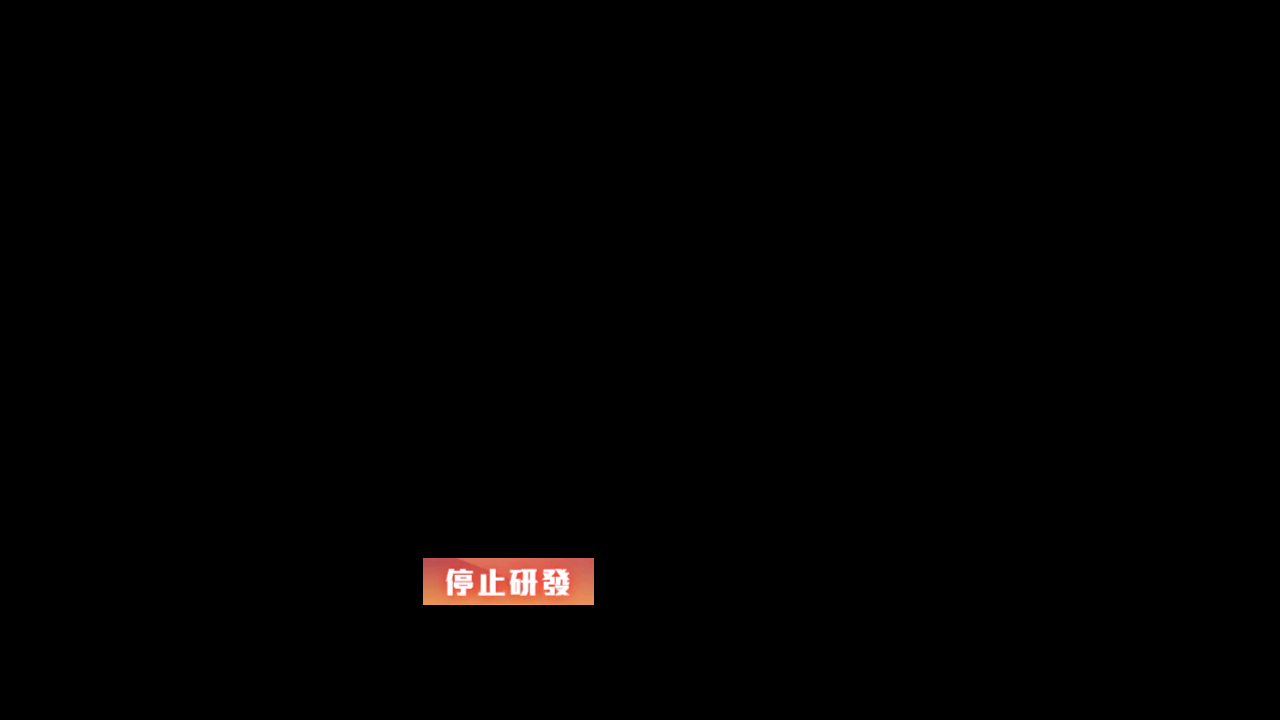
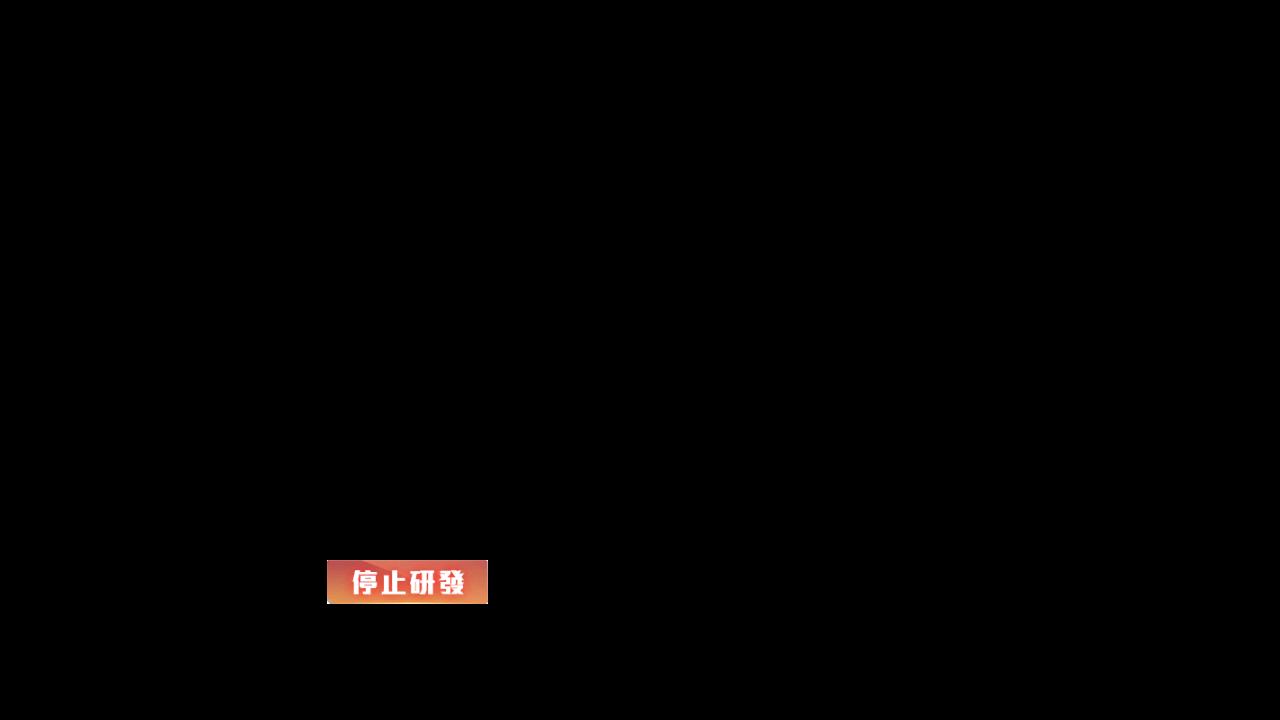
Upd: [TW] Research_queue_*.assets

Changed region(s): [[0.25, 0.7639, 0.4688, 0.8556]]

diff --git a/module/research/assets.py b/module/research/assets.py
@@ -30,9 +30,9 @@ OCR_RESEARCH_2 = Button(area={'cn': (292, 263, 490, 325), 'en': (292, 263, 490, 
 OCR_RESEARCH_3 = Button(area={'cn': (505, 249, 730, 319), 'en': (505, 249, 730, 319), 'jp': (505, 249, 730, 319), 'tw': (505, 249, 730, 319)}, color={'cn': (204, 180, 143), 'en': (204, 180, 143), 'jp': (204, 180, 143), 'tw': (204, 180, 143)}, button={'cn': (505, 249, 730, 319), 'en': (505, 249, 730, 319), 'jp': (505, 249, 730, 319), 'tw': (505, 249, 730, 319)}, file={'cn': './assets/cn/research/OCR_RESEARCH_3.png', 'en': './assets/en/research/OCR_RESEARCH_3.png', 'jp': './assets/jp/research/OCR_RESEARCH_3.png', 'tw': './assets/tw/research/OCR_RESEARCH_3.png'})
 OCR_RESEARCH_4 = Button(area={'cn': (752, 263, 950, 325), 'en': (752, 263, 950, 325), 'jp': (752, 263, 950, 325), 'tw': (752, 263, 950, 325)}, color={'cn': (122, 155, 203), 'en': (122, 155, 203), 'jp': (122, 155, 203), 'tw': (122, 155, 203)}, button={'cn': (752, 263, 950, 325), 'en': (752, 263, 950, 325), 'jp': (752, 263, 950, 325), 'tw': (752, 263, 950, 325)}, file={'cn': './assets/cn/research/OCR_RESEARCH_4.png', 'en': './assets/en/research/OCR_RESEARCH_4.png', 'jp': './assets/jp/research/OCR_RESEARCH_4.png', 'tw': './assets/tw/research/OCR_RESEARCH_4.png'})
 OCR_RESEARCH_5 = Button(area={'cn': (998, 276, 1169, 329), 'en': (998, 276, 1169, 329), 'jp': (998, 276, 1169, 329), 'tw': (998, 276, 1169, 329)}, color={'cn': (124, 156, 204), 'en': (124, 156, 204), 'jp': (124, 156, 204), 'tw': (124, 156, 204)}, button={'cn': (998, 276, 1169, 329), 'en': (998, 276, 1169, 329), 'jp': (998, 276, 1169, 329), 'tw': (998, 276, 1169, 329)}, file={'cn': './assets/cn/research/OCR_RESEARCH_5.png', 'en': './assets/en/research/OCR_RESEARCH_5.png', 'jp': './assets/jp/research/OCR_RESEARCH_5.png', 'tw': './assets/tw/research/OCR_RESEARCH_5.png'})
-QUEUE_CHECK = Button(area={'cn': (118, 16, 227, 39), 'en': (117, 16, 215, 38), 'jp': (116, 14, 232, 42), 'tw': (118, 16, 227, 39)}, color={'cn': (149, 166, 205), 'en': (125, 139, 179), 'jp': (147, 163, 199), 'tw': (149, 166, 205)}, button={'cn': (118, 16, 227, 39), 'en': (117, 16, 215, 38), 'jp': (116, 14, 232, 42), 'tw': (118, 16, 227, 39)}, file={'cn': './assets/cn/research/QUEUE_CHECK.png', 'en': './assets/en/research/QUEUE_CHECK.png', 'jp': './assets/jp/research/QUEUE_CHECK.png', 'tw': './assets/cn/research/QUEUE_CHECK.png'})
-QUEUE_CLAIM_REWARD = Button(area={'cn': (1230, 275, 1272, 420), 'en': (1225, 258, 1270, 448), 'jp': (1219, 254, 1279, 460), 'tw': (1230, 275, 1272, 420)}, color={'cn': (249, 182, 121), 'en': (249, 171, 97), 'jp': (249, 170, 97), 'tw': (249, 182, 121)}, button={'cn': (1230, 275, 1272, 420), 'en': (1225, 258, 1270, 448), 'jp': (1219, 254, 1279, 460), 'tw': (1230, 275, 1272, 420)}, file={'cn': './assets/cn/research/QUEUE_CLAIM_REWARD.png', 'en': './assets/en/research/QUEUE_CLAIM_REWARD.png', 'jp': './assets/jp/research/QUEUE_CLAIM_REWARD.png', 'tw': './assets/cn/research/QUEUE_CLAIM_REWARD.png'})
-QUEUE_REMAIN = Button(area={'cn': (156, 605, 272, 637), 'en': (151, 580, 278, 617), 'jp': (157, 605, 277, 636), 'tw': (156, 605, 272, 637)}, color={'cn': (193, 212, 240), 'en': (191, 210, 238), 'jp': (188, 208, 239), 'tw': (193, 212, 240)}, button={'cn': (156, 605, 272, 637), 'en': (151, 580, 278, 617), 'jp': (157, 605, 277, 636), 'tw': (156, 605, 272, 637)}, file={'cn': './assets/cn/research/QUEUE_REMAIN.png', 'en': './assets/en/research/QUEUE_REMAIN.png', 'jp': './assets/jp/research/QUEUE_REMAIN.png', 'tw': './assets/tw/research/QUEUE_REMAIN.png'})
+QUEUE_CHECK = Button(area={'cn': (118, 16, 227, 39), 'en': (117, 16, 215, 38), 'jp': (116, 14, 232, 42), 'tw': (121, 14, 268, 40)}, color={'cn': (149, 166, 205), 'en': (125, 139, 179), 'jp': (147, 163, 199), 'tw': (150, 166, 205)}, button={'cn': (118, 16, 227, 39), 'en': (117, 16, 215, 38), 'jp': (116, 14, 232, 42), 'tw': (121, 14, 268, 40)}, file={'cn': './assets/cn/research/QUEUE_CHECK.png', 'en': './assets/en/research/QUEUE_CHECK.png', 'jp': './assets/jp/research/QUEUE_CHECK.png', 'tw': './assets/tw/research/QUEUE_CHECK.png'})
+QUEUE_CLAIM_REWARD = Button(area={'cn': (1230, 275, 1272, 420), 'en': (1225, 258, 1270, 448), 'jp': (1219, 254, 1279, 460), 'tw': (1219, 253, 1280, 461)}, color={'cn': (249, 182, 121), 'en': (249, 171, 97), 'jp': (249, 170, 97), 'tw': (244, 166, 93)}, button={'cn': (1230, 275, 1272, 420), 'en': (1225, 258, 1270, 448), 'jp': (1219, 254, 1279, 460), 'tw': (1219, 253, 1280, 461)}, file={'cn': './assets/cn/research/QUEUE_CLAIM_REWARD.png', 'en': './assets/en/research/QUEUE_CLAIM_REWARD.png', 'jp': './assets/jp/research/QUEUE_CLAIM_REWARD.png', 'tw': './assets/tw/research/QUEUE_CLAIM_REWARD.png'})
+QUEUE_REMAIN = Button(area={'cn': (156, 605, 272, 637), 'en': (151, 580, 278, 617), 'jp': (157, 605, 277, 636), 'tw': (165, 582, 275, 613)}, color={'cn': (193, 212, 240), 'en': (191, 210, 238), 'jp': (188, 208, 239), 'tw': (192, 211, 241)}, button={'cn': (156, 605, 272, 637), 'en': (151, 580, 278, 617), 'jp': (157, 605, 277, 636), 'tw': (165, 582, 275, 613)}, file={'cn': './assets/cn/research/QUEUE_REMAIN.png', 'en': './assets/en/research/QUEUE_REMAIN.png', 'jp': './assets/jp/research/QUEUE_REMAIN.png', 'tw': './assets/tw/research/QUEUE_REMAIN.png'})
 RESEARCH_COST_CHECKER = Button(area={'cn': (809, 365, 972, 386), 'en': (809, 365, 972, 386), 'jp': (809, 365, 972, 386), 'tw': (809, 365, 972, 386)}, color={'cn': (105, 114, 128), 'en': (105, 114, 128), 'jp': (105, 114, 128), 'tw': (105, 114, 128)}, button={'cn': (809, 365, 972, 386), 'en': (809, 365, 972, 386), 'jp': (809, 365, 972, 386), 'tw': (809, 365, 972, 386)}, file={'cn': './assets/cn/research/RESEARCH_COST_CHECKER.png', 'en': './assets/en/research/RESEARCH_COST_CHECKER.png', 'jp': './assets/jp/research/RESEARCH_COST_CHECKER.png', 'tw': './assets/tw/research/RESEARCH_COST_CHECKER.png'})
 RESEARCH_DETAIL_QUIT = Button(area={'cn': (695, 656, 784, 707), 'en': (695, 656, 784, 707), 'jp': (695, 656, 784, 707), 'tw': (695, 656, 784, 707)}, color={'cn': (50, 57, 74), 'en': (50, 57, 74), 'jp': (50, 57, 74), 'tw': (50, 57, 74)}, button={'cn': (695, 656, 784, 707), 'en': (695, 656, 784, 707), 'jp': (695, 656, 784, 707), 'tw': (695, 656, 784, 707)}, file={'cn': './assets/cn/research/RESEARCH_DETAIL_QUIT.png', 'en': './assets/en/research/RESEARCH_DETAIL_QUIT.png', 'jp': './assets/jp/research/RESEARCH_DETAIL_QUIT.png', 'tw': './assets/tw/research/RESEARCH_DETAIL_QUIT.png'})
 RESEARCH_FINISHED = Button(area={'cn': (384, 547, 502, 585), 'en': (382, 545, 504, 587), 'jp': (383, 546, 503, 586), 'tw': (384, 547, 502, 585)}, color={'cn': (233, 163, 69), 'en': (235, 174, 92), 'jp': (229, 159, 63), 'tw': (233, 163, 69)}, button={'cn': (384, 547, 502, 585), 'en': (382, 545, 504, 587), 'jp': (383, 546, 503, 586), 'tw': (384, 547, 502, 585)}, file={'cn': './assets/cn/research/RESEARCH_FINISHED.png', 'en': './assets/en/research/RESEARCH_FINISHED.png', 'jp': './assets/jp/research/RESEARCH_FINISHED.png', 'tw': './assets/tw/research/RESEARCH_FINISHED.png'})
@@ -40,10 +40,10 @@ RESEARCH_GOTO_QUEUE = Button(area={'cn': (4, 227, 51, 255), 'en': (4, 227, 51, 2
 RESEARCH_LAB = Button(area={'cn': (55, 518, 186, 559), 'en': (75, 539, 129, 558), 'jp': (56, 512, 189, 554), 'tw': (54, 533, 187, 562)}, color={'cn': (113, 142, 174), 'en': (133, 169, 199), 'jp': (106, 136, 168), 'tw': (121, 161, 195)}, button={'cn': (55, 518, 186, 559), 'en': (75, 539, 129, 558), 'jp': (56, 512, 189, 554), 'tw': (54, 533, 187, 562)}, file={'cn': './assets/cn/research/RESEARCH_LAB.png', 'en': './assets/en/research/RESEARCH_LAB.png', 'jp': './assets/jp/research/RESEARCH_LAB.png', 'tw': './assets/tw/research/RESEARCH_LAB.png'})
 RESEARCH_LAB_DURATION_REMAIN = Button(area={'cn': (379, 583, 504, 614), 'en': (379, 583, 504, 614), 'jp': (379, 583, 504, 614), 'tw': (379, 583, 504, 614)}, color={'cn': (158, 157, 158), 'en': (158, 157, 158), 'jp': (158, 157, 158), 'tw': (158, 157, 158)}, button={'cn': (379, 583, 504, 614), 'en': (379, 583, 504, 614), 'jp': (379, 583, 504, 614), 'tw': (379, 583, 504, 614)}, file={'cn': './assets/cn/research/RESEARCH_LAB_DURATION_REMAIN.png', 'en': './assets/en/research/RESEARCH_LAB_DURATION_REMAIN.png', 'jp': './assets/jp/research/RESEARCH_LAB_DURATION_REMAIN.png', 'tw': './assets/tw/research/RESEARCH_LAB_DURATION_REMAIN.png'})
 RESEARCH_PENDING = Button(area={'cn': (227, 589, 269, 607), 'en': (227, 589, 269, 607), 'jp': (221, 588, 282, 612), 'tw': (225, 586, 272, 612)}, color={'cn': (108, 163, 168), 'en': (98, 152, 158), 'jp': (101, 148, 156), 'tw': (93, 144, 151)}, button={'cn': (227, 589, 269, 607), 'en': (227, 589, 269, 607), 'jp': (221, 588, 282, 612), 'tw': (225, 586, 272, 612)}, file={'cn': './assets/cn/research/RESEARCH_PENDING.png', 'en': './assets/en/research/RESEARCH_PENDING.png', 'jp': './assets/jp/research/RESEARCH_PENDING.png', 'tw': './assets/tw/research/RESEARCH_PENDING.png'})
-RESEARCH_QUEUE_ADD = Button(area={'cn': (541, 570, 654, 595), 'en': (564, 574, 635, 590), 'jp': (522, 559, 679, 604), 'tw': (541, 570, 654, 595)}, color={'cn': (164, 203, 237), 'en': (144, 189, 232), 'jp': (113, 166, 221), 'tw': (164, 203, 237)}, button={'cn': (541, 570, 654, 595), 'en': (564, 574, 635, 590), 'jp': (522, 559, 679, 604), 'tw': (541, 570, 654, 595)}, file={'cn': './assets/cn/research/RESEARCH_QUEUE_ADD.png', 'en': './assets/en/research/RESEARCH_QUEUE_ADD.png', 'jp': './assets/jp/research/RESEARCH_QUEUE_ADD.png', 'tw': './assets/cn/research/RESEARCH_QUEUE_ADD.png'})
+RESEARCH_QUEUE_ADD = Button(area={'cn': (541, 570, 654, 595), 'en': (564, 574, 635, 590), 'jp': (522, 559, 679, 604), 'tw': (515, 559, 679, 604)}, color={'cn': (164, 203, 237), 'en': (144, 189, 232), 'jp': (113, 166, 221), 'tw': (116, 167, 221)}, button={'cn': (541, 570, 654, 595), 'en': (564, 574, 635, 590), 'jp': (522, 559, 679, 604), 'tw': (515, 559, 679, 604)}, file={'cn': './assets/cn/research/RESEARCH_QUEUE_ADD.png', 'en': './assets/en/research/RESEARCH_QUEUE_ADD.png', 'jp': './assets/jp/research/RESEARCH_QUEUE_ADD.png', 'tw': './assets/tw/research/RESEARCH_QUEUE_ADD.png'})
 RESEARCH_RUNNING = Button(area={'cn': (313, 556, 362, 619), 'en': (313, 556, 362, 619), 'jp': (313, 556, 362, 619), 'tw': (313, 556, 362, 619)}, color={'cn': (124, 126, 131), 'en': (124, 126, 131), 'jp': (124, 126, 131), 'tw': (124, 126, 131)}, button={'cn': (313, 556, 362, 619), 'en': (313, 556, 362, 619), 'jp': (313, 556, 362, 619), 'tw': (313, 556, 362, 619)}, file={'cn': './assets/cn/research/RESEARCH_RUNNING.png', 'en': './assets/en/research/RESEARCH_RUNNING.png', 'jp': './assets/jp/research/RESEARCH_RUNNING.png', 'tw': './assets/tw/research/RESEARCH_RUNNING.png'})
-RESEARCH_START = Button(area={'cn': (445, 569, 568, 597), 'en': (459, 571, 556, 591), 'jp': (423, 556, 596, 608), 'tw': (423, 558, 594, 605)}, color={'cn': (173, 211, 242), 'en': (140, 188, 231), 'jp': (109, 163, 219), 'tw': (126, 176, 227)}, button={'cn': (445, 569, 568, 597), 'en': (459, 571, 556, 591), 'jp': (423, 556, 596, 608), 'tw': (423, 558, 594, 605)}, file={'cn': './assets/cn/research/RESEARCH_START.png', 'en': './assets/en/research/RESEARCH_START.png', 'jp': './assets/jp/research/RESEARCH_START.png', 'tw': './assets/tw/research/RESEARCH_START.png'})
-RESEARCH_STOP = Button(area={'cn': (329, 561, 485, 602), 'en': (349, 574, 464, 592), 'jp': (333, 561, 488, 604), 'tw': (423, 558, 594, 605)}, color={'cn': (228, 138, 117), 'en': (231, 152, 141), 'jp': (225, 138, 117), 'tw': (230, 141, 120)}, button={'cn': (329, 561, 485, 602), 'en': (349, 574, 464, 592), 'jp': (333, 561, 488, 604), 'tw': (423, 558, 594, 605)}, file={'cn': './assets/cn/research/RESEARCH_STOP.png', 'en': './assets/en/research/RESEARCH_STOP.png', 'jp': './assets/jp/research/RESEARCH_STOP.png', 'tw': './assets/tw/research/RESEARCH_STOP.png'})
+RESEARCH_START = Button(area={'cn': (445, 569, 568, 597), 'en': (459, 571, 556, 591), 'jp': (423, 556, 596, 608), 'tw': (444, 566, 569, 597)}, color={'cn': (173, 211, 242), 'en': (140, 188, 231), 'jp': (109, 163, 219), 'tw': (175, 212, 242)}, button={'cn': (445, 569, 568, 597), 'en': (459, 571, 556, 591), 'jp': (423, 556, 596, 608), 'tw': (444, 566, 569, 597)}, file={'cn': './assets/cn/research/RESEARCH_START.png', 'en': './assets/en/research/RESEARCH_START.png', 'jp': './assets/jp/research/RESEARCH_START.png', 'tw': './assets/tw/research/RESEARCH_START.png'})
+RESEARCH_STOP = Button(area={'cn': (329, 561, 485, 602), 'en': (349, 574, 464, 592), 'jp': (333, 561, 488, 604), 'tw': (327, 560, 488, 604)}, color={'cn': (228, 138, 117), 'en': (231, 152, 141), 'jp': (225, 138, 117), 'tw': (227, 141, 118)}, button={'cn': (329, 561, 485, 602), 'en': (349, 574, 464, 592), 'jp': (333, 561, 488, 604), 'tw': (327, 560, 488, 604)}, file={'cn': './assets/cn/research/RESEARCH_STOP.png', 'en': './assets/en/research/RESEARCH_STOP.png', 'jp': './assets/jp/research/RESEARCH_STOP.png', 'tw': './assets/tw/research/RESEARCH_STOP.png'})
 RESEARCH_UNAVAILABLE = Button(area={'cn': (509, 569, 568, 597), 'en': (459, 572, 556, 591), 'jp': (449, 569, 566, 596), 'tw': (440, 565, 576, 601)}, color={'cn': (185, 191, 194), 'en': (152, 178, 200), 'jp': (169, 184, 208), 'tw': (156, 181, 203)}, button={'cn': (509, 569, 568, 597), 'en': (459, 572, 556, 591), 'jp': (449, 569, 566, 596), 'tw': (440, 565, 576, 601)}, file={'cn': './assets/cn/research/RESEARCH_UNAVAILABLE.png', 'en': './assets/en/research/RESEARCH_UNAVAILABLE.png', 'jp': './assets/jp/research/RESEARCH_UNAVAILABLE.png', 'tw': './assets/tw/research/RESEARCH_UNAVAILABLE.png'})
 RESET_AVAILABLE = Button(area={'cn': (1153, 662, 1227, 679), 'en': (1099, 648, 1238, 693), 'jp': (1101, 650, 1236, 690), 'tw': (1102, 651, 1235, 691)}, color={'cn': (101, 118, 152), 'en': (62, 84, 110), 'jp': (74, 88, 121), 'tw': (67, 82, 116)}, button={'cn': (1153, 662, 1227, 679), 'en': (1099, 648, 1238, 693), 'jp': (1101, 650, 1236, 690), 'tw': (1102, 651, 1235, 691)}, file={'cn': './assets/cn/research/RESET_AVAILABLE.png', 'en': './assets/en/research/RESET_AVAILABLE.png', 'jp': './assets/jp/research/RESET_AVAILABLE.png', 'tw': './assets/tw/research/RESET_AVAILABLE.png'})
 SERIES_1 = Button(area={'cn': (86, 154, 113, 173), 'en': (86, 154, 113, 173), 'jp': (86, 154, 113, 173), 'tw': (86, 154, 113, 173)}, color={'cn': (197, 108, 91), 'en': (197, 108, 91), 'jp': (197, 108, 91), 'tw': (197, 108, 91)}, button={'cn': (86, 154, 113, 173), 'en': (86, 154, 113, 173), 'jp': (86, 154, 113, 173), 'tw': (86, 154, 113, 173)}, file={'cn': './assets/cn/research/SERIES_1.png', 'en': './assets/en/research/SERIES_1.png', 'jp': './assets/jp/research/SERIES_1.png', 'tw': './assets/tw/research/SERIES_1.png'})
@@ -59,6 +59,6 @@ STATUS_2 = Button(area={'cn': (330, 570, 336, 576), 'en': (330, 570, 336, 576), 
 STATUS_3 = Button(area={'cn': (549, 598, 556, 605), 'en': (549, 598, 556, 605), 'jp': (549, 598, 556, 605), 'tw': (549, 598, 556, 605)}, color={'cn': (115, 166, 222), 'en': (115, 166, 222), 'jp': (115, 166, 222), 'tw': (115, 166, 222)}, button={'cn': (549, 598, 556, 605), 'en': (549, 598, 556, 605), 'jp': (549, 598, 556, 605), 'tw': (549, 598, 556, 605)}, file={'cn': './assets/cn/research/STATUS_3.png', 'en': './assets/en/research/STATUS_3.png', 'jp': './assets/jp/research/STATUS_3.png', 'tw': './assets/tw/research/STATUS_3.png'})
 STATUS_4 = Button(area={'cn': (790, 570, 796, 576), 'en': (790, 570, 796, 576), 'jp': (790, 570, 796, 576), 'tw': (790, 570, 796, 576)}, color={'cn': (115, 166, 222), 'en': (115, 166, 222), 'jp': (115, 166, 222), 'tw': (115, 166, 222)}, button={'cn': (790, 570, 796, 576), 'en': (790, 570, 796, 576), 'jp': (790, 570, 796, 576), 'tw': (790, 570, 796, 576)}, file={'cn': './assets/cn/research/STATUS_4.png', 'en': './assets/en/research/STATUS_4.png', 'jp': './assets/jp/research/STATUS_4.png', 'tw': './assets/tw/research/STATUS_4.png'})
 STATUS_5 = Button(area={'cn': (1031, 541, 1037, 547), 'en': (1031, 541, 1037, 547), 'jp': (1031, 541, 1037, 547), 'tw': (1031, 541, 1037, 547)}, color={'cn': (115, 166, 222), 'en': (115, 166, 222), 'jp': (115, 166, 222), 'tw': (115, 166, 222)}, button={'cn': (1031, 541, 1037, 547), 'en': (1031, 541, 1037, 547), 'jp': (1031, 541, 1037, 547), 'tw': (1031, 541, 1037, 547)}, file={'cn': './assets/cn/research/STATUS_5.png', 'en': './assets/en/research/STATUS_5.png', 'jp': './assets/jp/research/STATUS_5.png', 'tw': './assets/tw/research/STATUS_5.png'})
-TEMPLATE_DETAIL = Template(file={'cn': './assets/cn/research/TEMPLATE_DETAIL.png', 'en': './assets/en/research/TEMPLATE_DETAIL.png', 'jp': './assets/jp/research/TEMPLATE_DETAIL.png', 'tw': './assets/cn/research/TEMPLATE_DETAIL.png'})
-TEMPLATE_RUNNING = Template(file={'cn': './assets/cn/research/TEMPLATE_RUNNING.png', 'en': './assets/en/research/TEMPLATE_RUNNING.png', 'jp': './assets/jp/research/TEMPLATE_RUNNING.png', 'tw': './assets/cn/research/TEMPLATE_RUNNING.png'})
-TEMPLATE_WAITING = Template(file={'cn': './assets/cn/research/TEMPLATE_WAITING.png', 'en': './assets/en/research/TEMPLATE_WAITING.png', 'jp': './assets/jp/research/TEMPLATE_WAITING.png', 'tw': './assets/cn/research/TEMPLATE_WAITING.png'})
+TEMPLATE_DETAIL = Template(file={'cn': './assets/cn/research/TEMPLATE_DETAIL.png', 'en': './assets/en/research/TEMPLATE_DETAIL.png', 'jp': './assets/jp/research/TEMPLATE_DETAIL.png', 'tw': './assets/tw/research/TEMPLATE_DETAIL.png'})
+TEMPLATE_RUNNING = Template(file={'cn': './assets/cn/research/TEMPLATE_RUNNING.png', 'en': './assets/en/research/TEMPLATE_RUNNING.png', 'jp': './assets/jp/research/TEMPLATE_RUNNING.png', 'tw': './assets/tw/research/TEMPLATE_RUNNING.png'})
+TEMPLATE_WAITING = Template(file={'cn': './assets/cn/research/TEMPLATE_WAITING.png', 'en': './assets/en/research/TEMPLATE_WAITING.png', 'jp': './assets/jp/research/TEMPLATE_WAITING.png', 'tw': './assets/tw/research/TEMPLATE_WAITING.png'})
